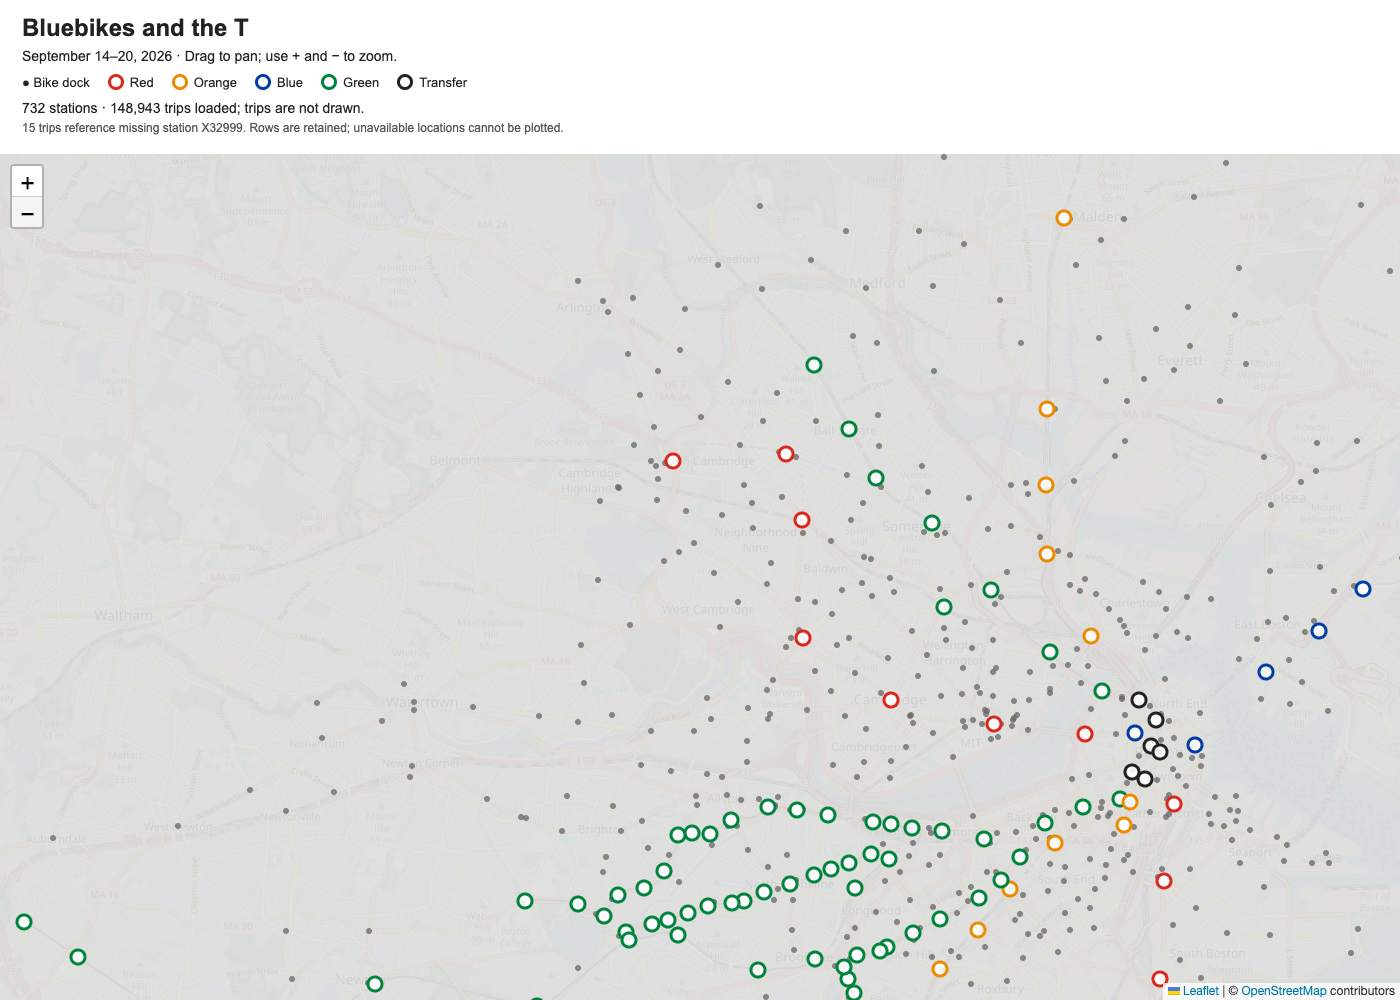
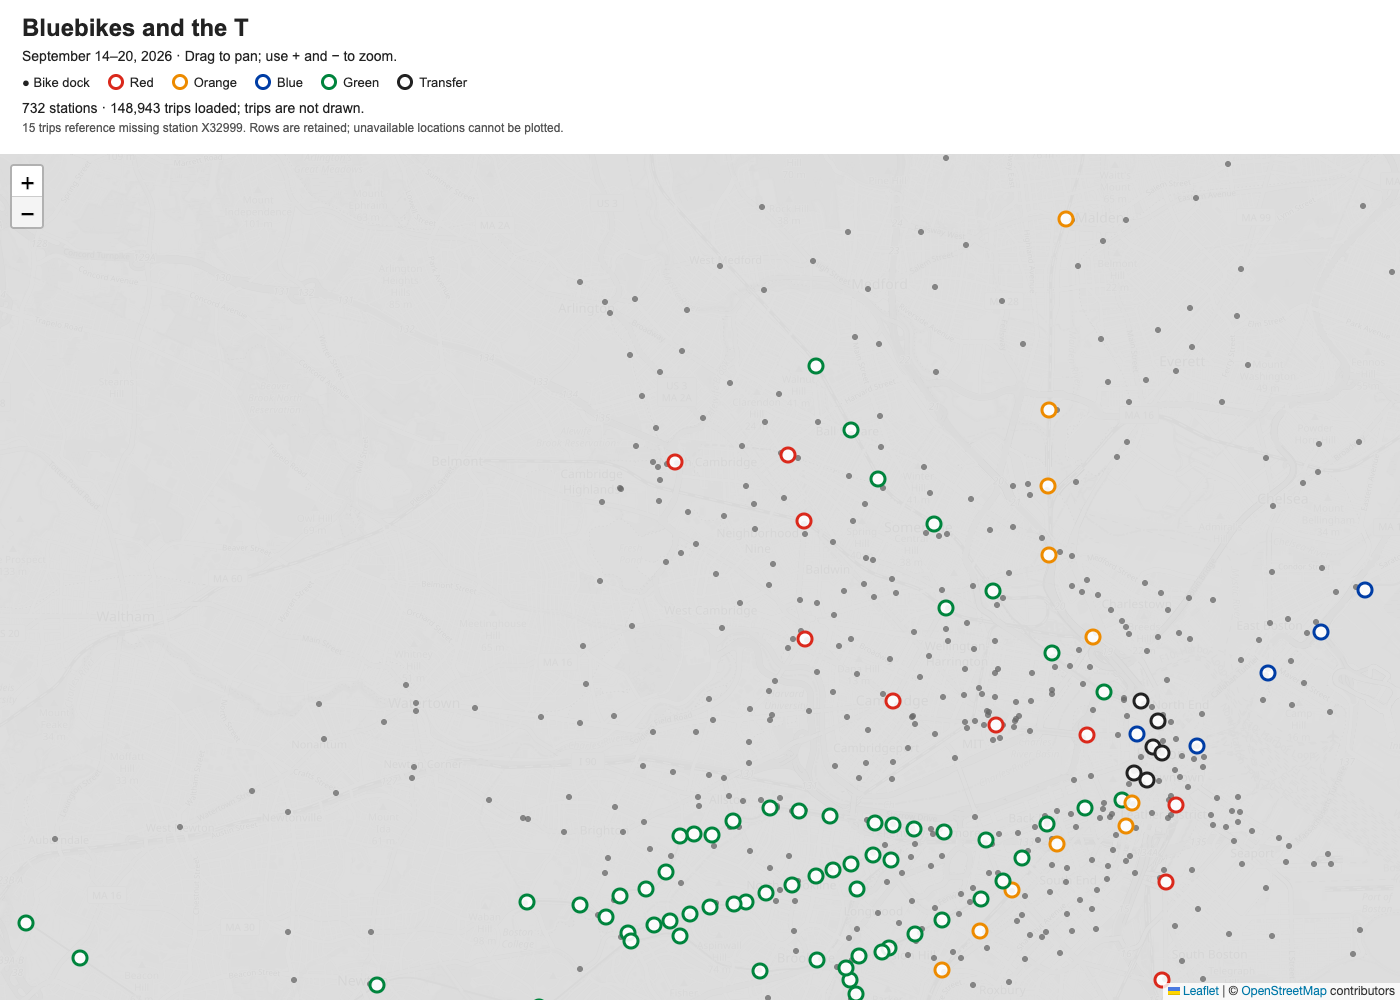
map: OSM ground, Svelte overlay of 732 stations

diff --git a/Lab_08/bike-map/src/routes/+page.svelte b/Lab_08/bike-map/src/routes/+page.svelte
@@ -66,6 +66,7 @@
   </div>
 </main>
 <style>
+  :global(.leaflet-tile-pane){filter:grayscale(1) opacity(0.55);}
   :global(body){margin:0;font-family:Arial,sans-serif;color:#222;}
   main{height:100dvh;display:flex;flex-direction:column;}
   header{padding:14px 22px;background:white;}
